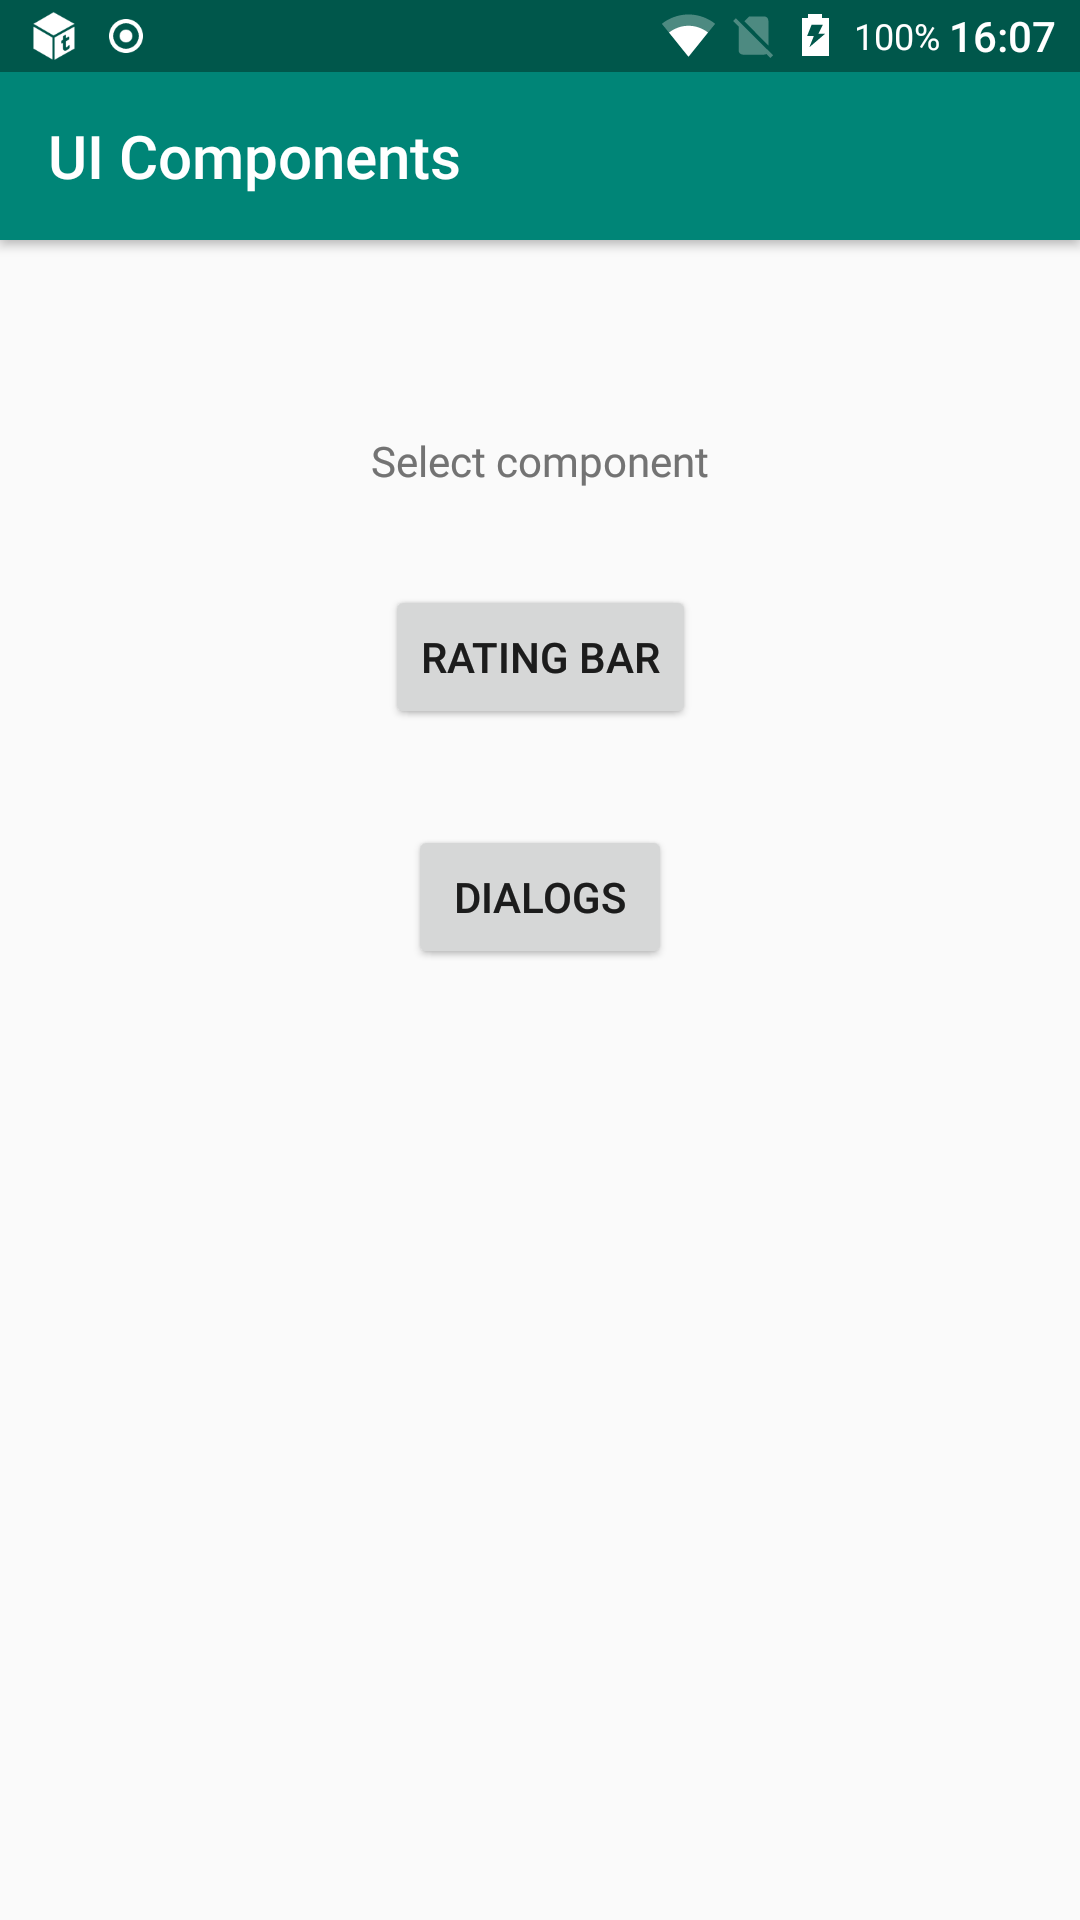
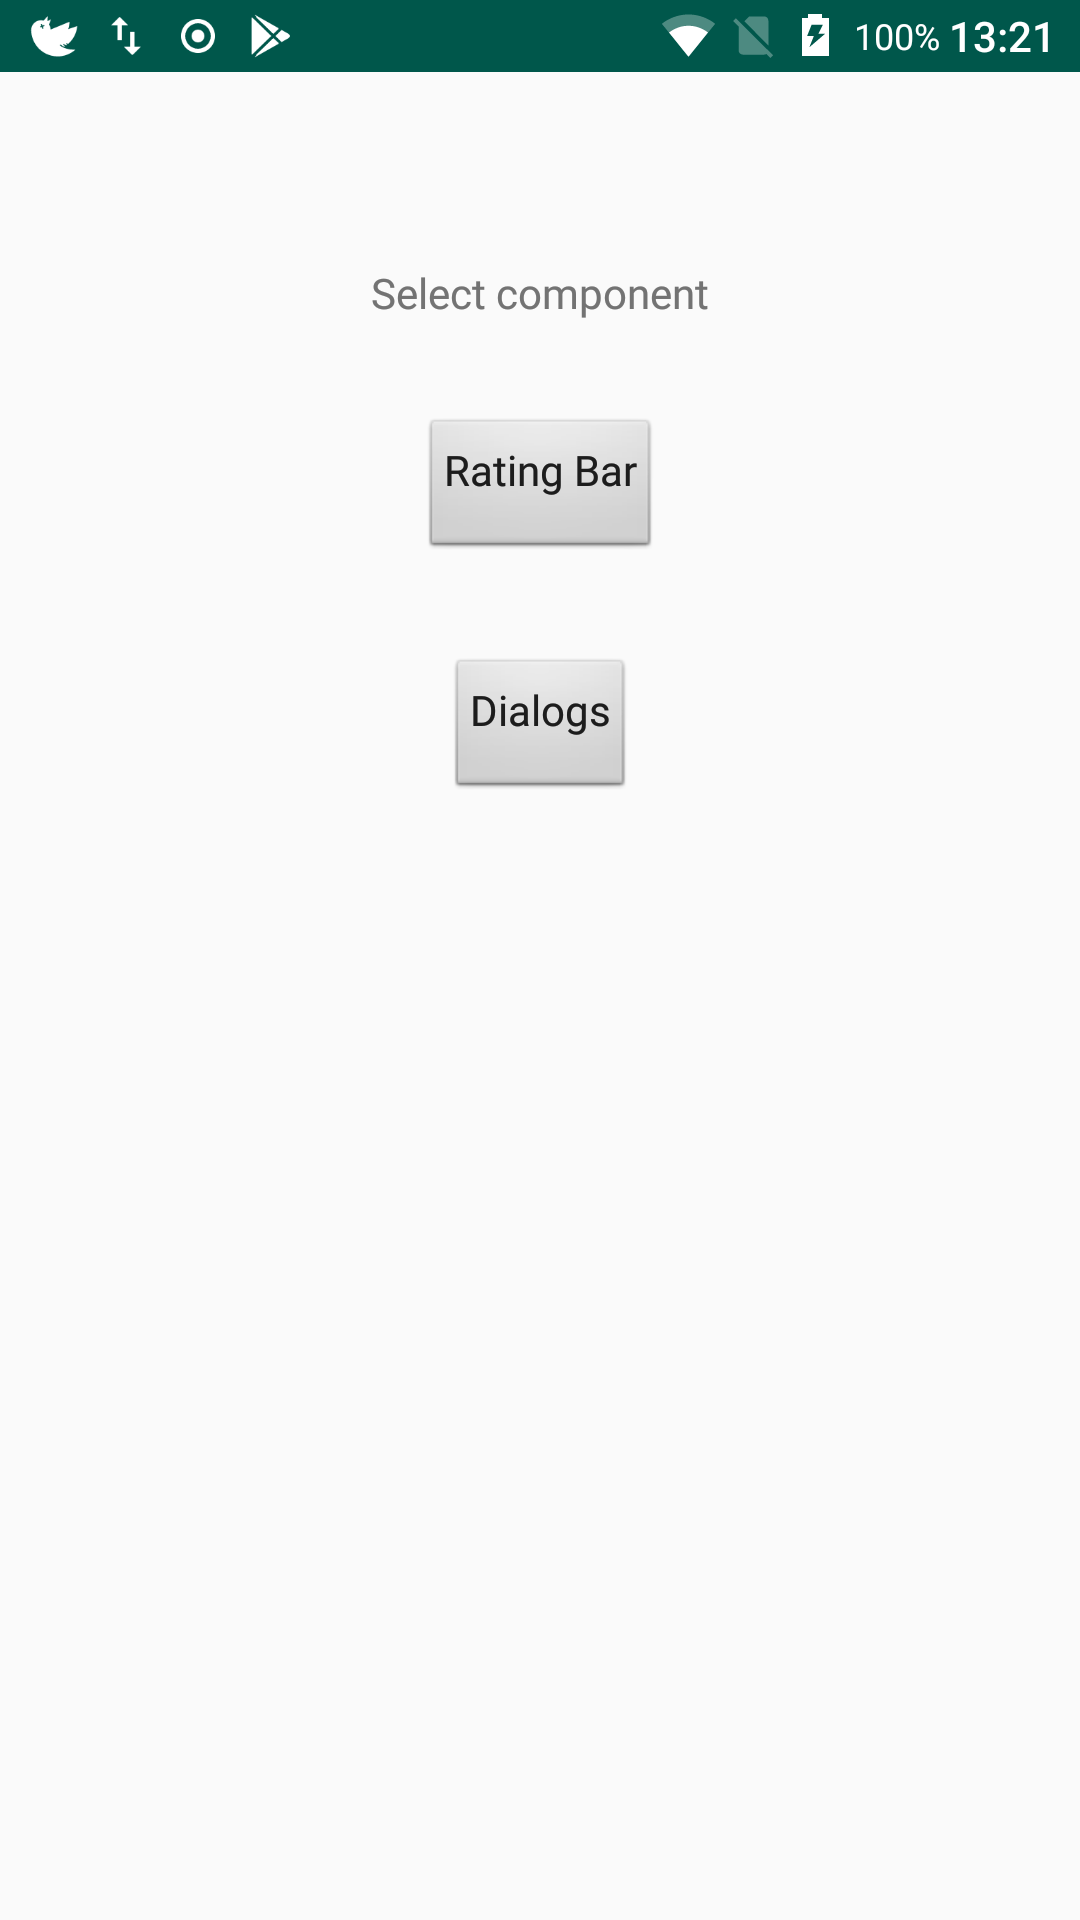
Update readme and screenshots. Update sample project style.

Changed region(s): [[0.0, 0.0, 1.0, 0.1562], [0.3361, 0.2188, 0.6417, 0.5]]

diff --git a/sample/src/main/java/com/trendyol/uicomponents/DialogsActivity.kt b/sample/src/main/java/com/trendyol/uicomponents/DialogsActivity.kt
@@ -21,6 +21,7 @@ class DialogsActivity : AppCompatActivity() {
         button_info_dialog.setOnClickListener { showInfoDialog() }
         button_agreement_dialog.setOnClickListener { showAgreementDialog() }
         button_selection_dialog.setOnClickListener { showSelectionDialog() }
+        button_selection_with_search_dialog.setOnClickListener { showSelectionWithSearchDialog() }
     }
 
     private fun showInfoDialog() {
@@ -69,6 +70,23 @@ class DialogsActivity : AppCompatActivity() {
         }
 
         selectionDialog.showDialog(supportFragmentManager)
+    }
+
+    private fun showSelectionWithSearchDialog() {
+        selectionDialog {
+            title = "Selection Dialog with Search Sample"
+            content = getHtmlString()
+            showContentAsHtml = true
+            showCloseButton = false
+            contentImage = android.R.drawable.ic_dialog_email
+            items = getListItems()
+            onItemSelectedListener = { dialogFragment, i ->
+                showToast("Selection changed to ${i + 1}th ")
+            }
+            enableSearch = true
+            showClearSearchButton = true
+            searchHint = "Hint for search"
+        }.showDialog(supportFragmentManager)
     }
 
     private fun getSpannableString(): SpannableStringBuilder =

diff --git a/libraries/dialogs/README.md b/libraries/dialogs/README.md
@@ -1,7 +1,7 @@
 
-<img src="https://raw.githubusercontent.com/Trendyol/android-ui-components/master/images/dialogs-1.png" width="240"/> <img src="https://raw.githubusercontent.com/Trendyol/android-ui-components/master/images/dialogs-2.png" width="240"/> <img src="https://raw.githubusercontent.com/Trendyol/android-ui-components/master/images/dialogs-3.png" width="240"/>
+<img src="https://raw.githubusercontent.com/Trendyol/android-ui-components/master/images/dialogs-1.png" width="240"/> <img src="https://raw.githubusercontent.com/Trendyol/android-ui-components/master/images/dialogs-2.png" width="240"/> <img src="https://raw.githubusercontent.com/Trendyol/android-ui-components/master/images/dialogs-3.png" width="240"/> <img src="https://raw.githubusercontent.com/Trendyol/android-ui-components/master/images/dialogs-4.png" width="240"/>
   
-$dialogsVersion = dialogs-1.0.2 [![License](https://img.shields.io/badge/License-Apache%202.0-blue.svg)](https://opensource.org/licenses/Apache-2.0)
+$dialogsVersion = dialogs-1.0.3 [![License](https://img.shields.io/badge/License-Apache%202.0-blue.svg)](https://opensource.org/licenses/Apache-2.0)
   
 ## Dialogs  
 Dialogs is a bunch of BottomSheetDialogs to use in app to show user an information, agreement or list.  
@@ -89,6 +89,9 @@ All **Info Dialog** arguments plus these arguments will be applicable to show se
 | `items` | List<Pair<Boolean, String>> | Item list that will be listed on dialog. | null | 
 | `showItemsAsHtml` | Boolean | Item texts will be parsed as Html if this flag setted as true. | false |
 | `onItemSelectedListener` | (DialogFragment, Int) -> Unit | Listener to notify selected index.  | null |
+| `enableSearch` | Boolean | Enables search function in given `items`  | false |
+| `showClearSearchButton` | Boolean | Shows clean button on the right of the search input line.  | false |
+| `searchHint` | String | Hint to show on search input line.  | "" |
 
 Sample usage:
 ```kotlin
@@ -101,6 +104,22 @@ selectionDialog {
         dialog.dismiss()
         onItemSelected(index)
     }
+}
+```
+
+Sample usage with search:
+```kotlin
+selectionDialog {
+    title = "Selection Dialog with Search Title"
+    content = getContent()
+    items = getItemsAsHtml()
+    showItemsAsHtml = true
+    onItemSelectedListener = { dialog, index ->
+        onItemSelected(index)
+    }
+    enableSearch = true
+    showClearSearchButton = true
+    searchHint = "Hint for search"
 }
 ```
 
